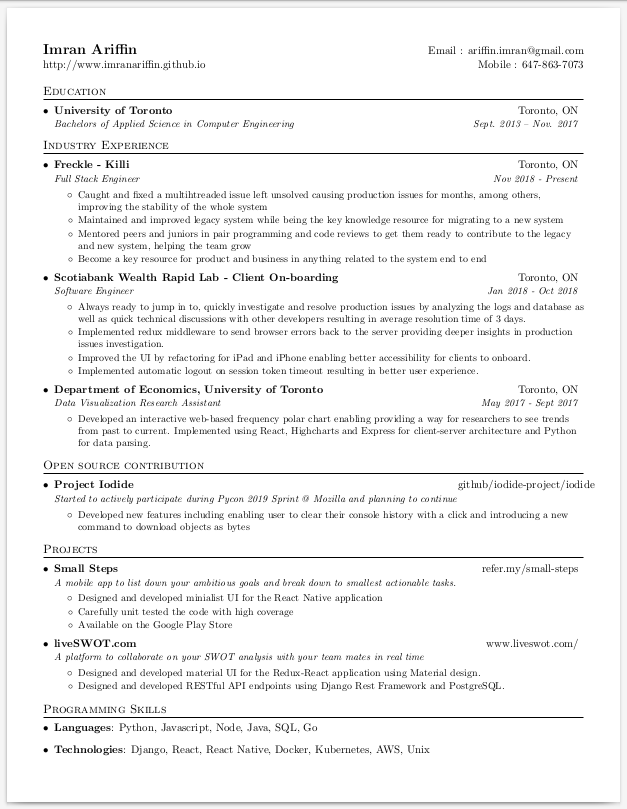
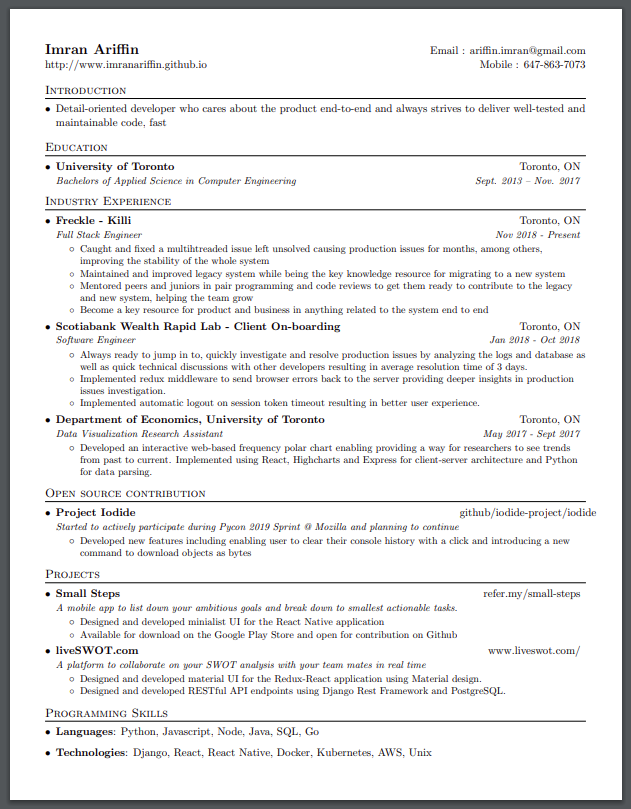
Kira talent (#2)
* Add goal

* Make projects details more concise

* Update pdf resume & preview

Changed region(s): [[0.0, 0.0, 1.0, 1.0], [0.697, 0.0618, 0.7273, 0.0927]]

diff --git a/imran_ariffin.tex b/imran_ariffin.tex
@@ -78,7 +78,15 @@
     \href{http://imranariffin.github.io/}{http://www.imranariffin.github.io} & Mobile : 647-863-7073 \\
   \end{tabular*}
   
-  
+
+  \section{Introduction}
+    \resumeSubHeadingListStart
+      \item{
+        {Detail-oriented developer who cares about the product end-to-end and always strives to deliver well-tested and maintainable code, fast}
+      }
+    \resumeSubHeadingListEnd
+
+
   %-----------EDUCATION-----------------
   \section{Education}
     \resumeSubHeadingListStart
@@ -114,8 +122,6 @@
             {Always ready to jump in to, quickly investigate and resolve production issues by analyzing the logs and database as well as quick technical discussions with other developers resulting in average resolution time of 3 days.}
           \resumeItem{}
             {Implemented redux middleware to send browser errors back to the server providing deeper insights in production issues investigation.}
-          \resumeItem{}
-            {Improved the UI by refactoring for iPad and iPhone enabling better accessibility for clients to onboard.}
           \resumeItem{}
             {Implemented automatic logout on session token timeout resulting in better user experience.}
         \resumeItemListEnd
@@ -154,9 +160,7 @@
           \resumeItem{}
             {Designed and developed minialist UI for the React Native application}
           \resumeItem{}
-            {Carefully unit tested the code with high coverage}
-          \resumeItem{}
-            {Available on the Google Play Store}
+            {Available for download on the Google Play Store and open for contribution on Github}
         \resumeItemListEnd
       \resumeSubheading
         {liveSWOT.com}{www.liveswot.com/}
